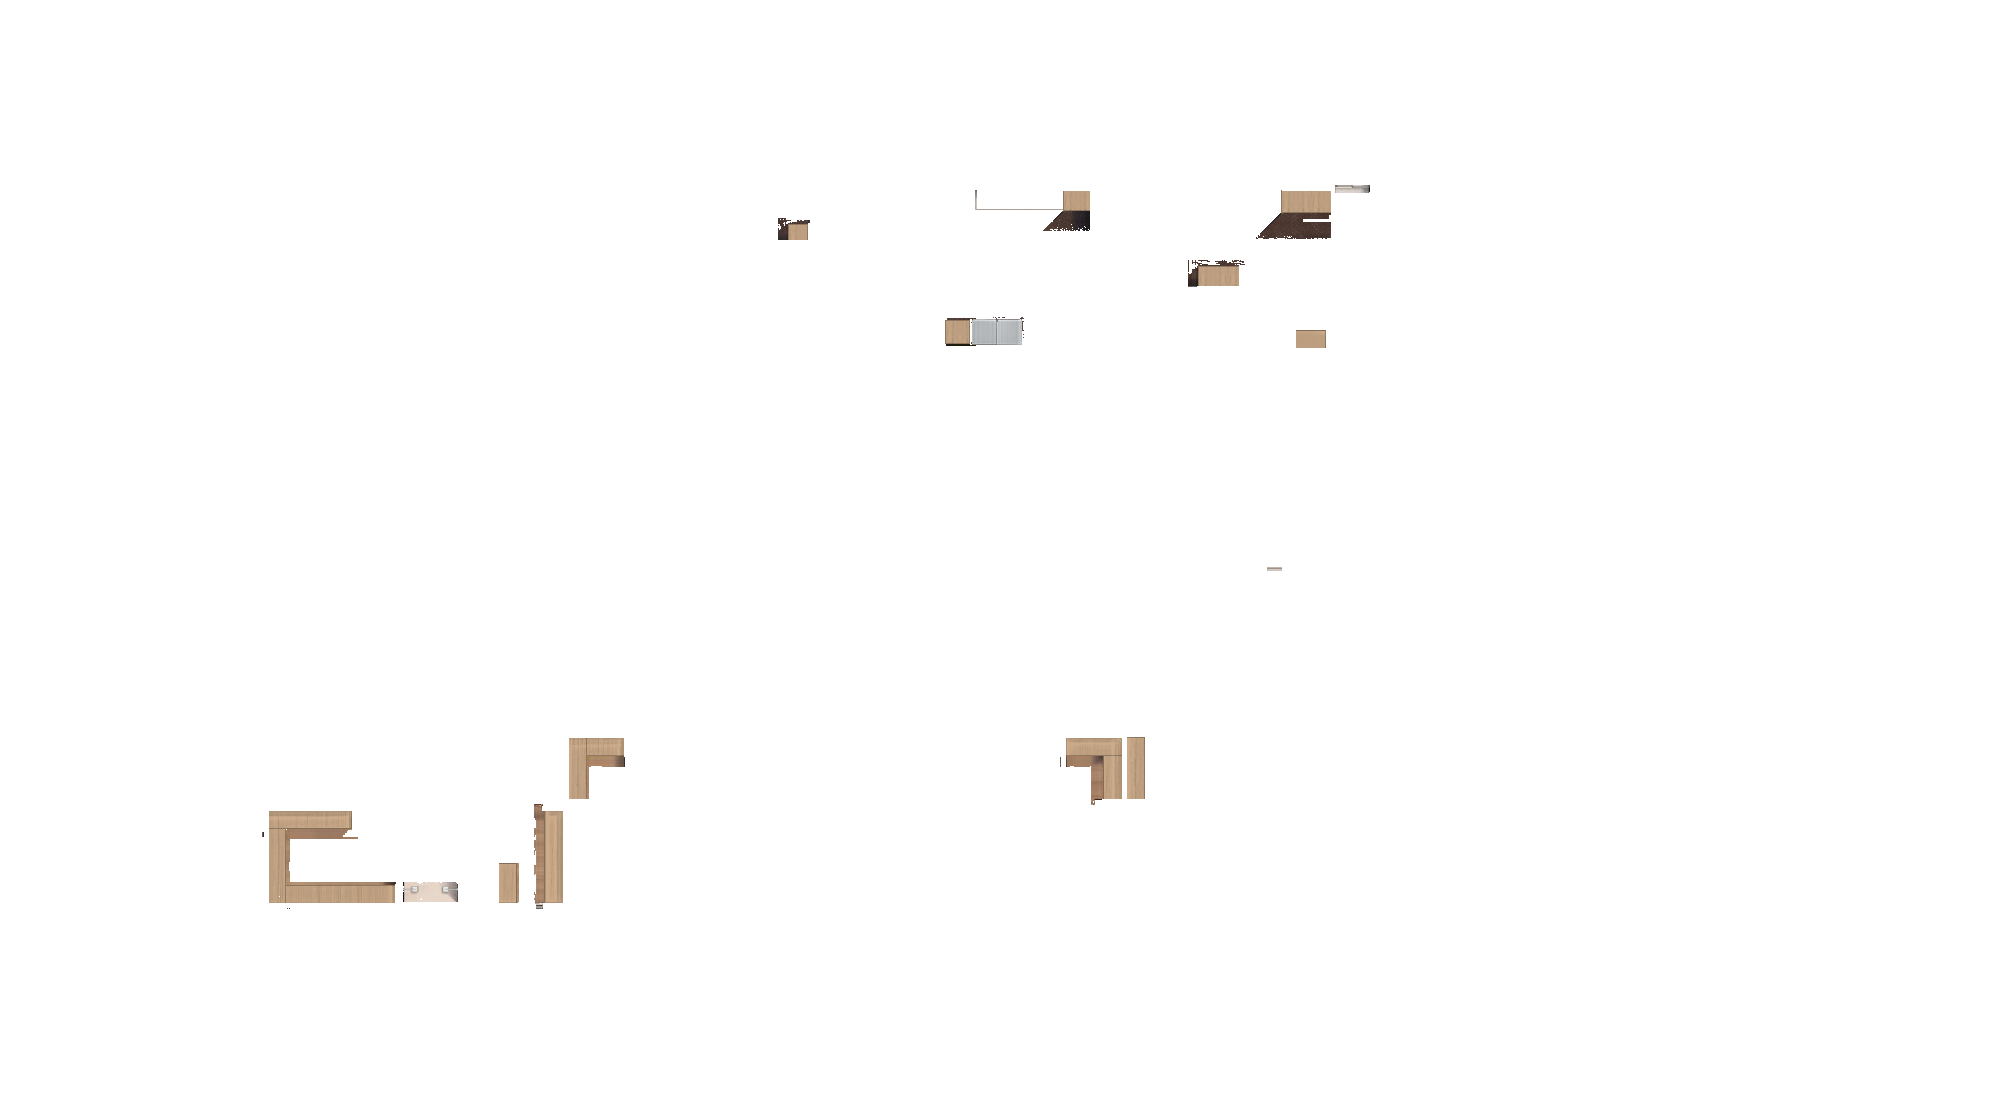
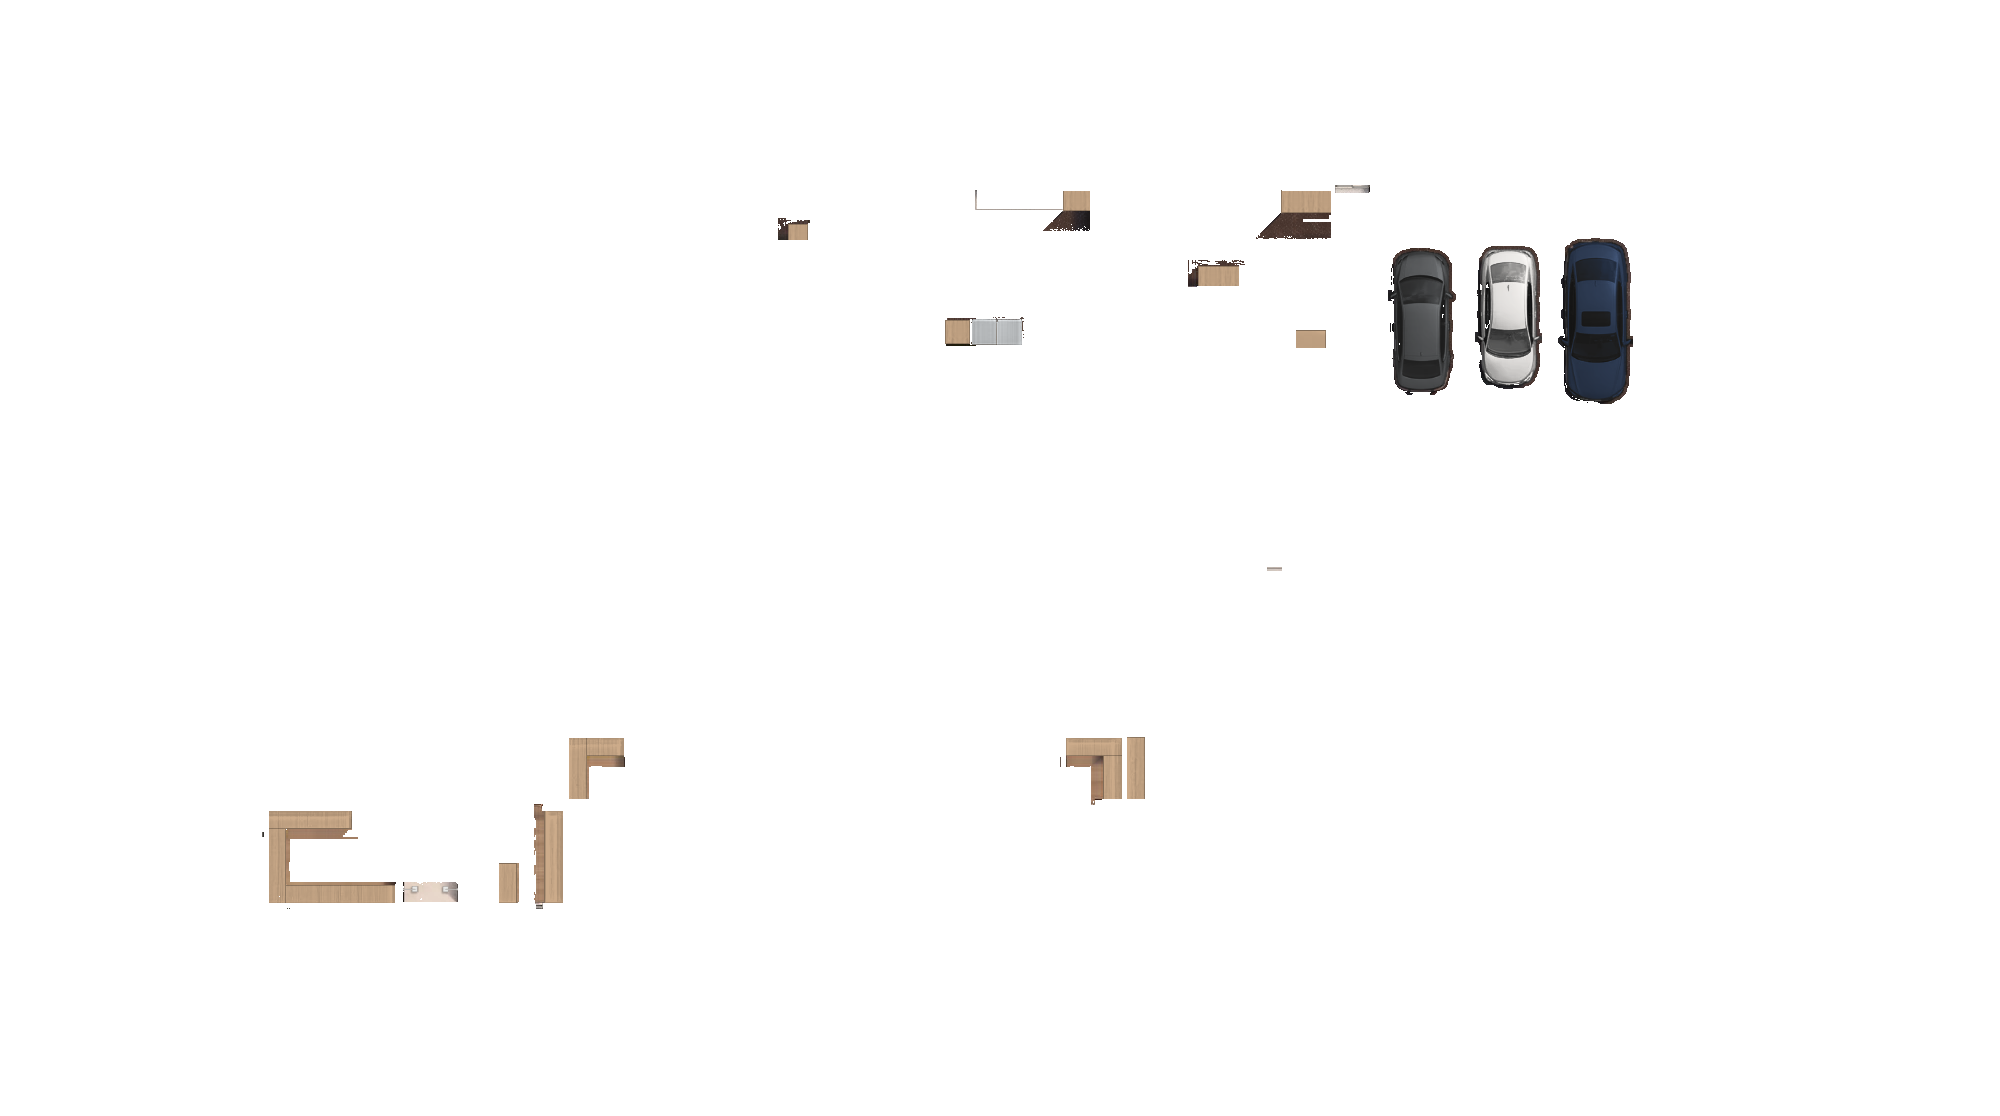
Casa D: carros em tons diferentes e prévia do retoque
Claude-Session: https://claude.ai/code/session_01Mm19WX3KoLN1nXMDF5Ay3F

Changed region(s): [[0.682, 0.2133, 0.837, 0.3656]]

diff --git a/projetos/POE642_CasaA/scripts/retoque_terreo_casad.py b/projetos/POE642_CasaA/scripts/retoque_terreo_casad.py
@@ -37,6 +37,11 @@ Os itens são corrigidos um a um, na ordem pedida pelo usuário.
    dela viram o piso do abrigo (as de baixo, em espelho) e entra a porta do PDF (ARQ_PAREDE): duas
    folhas em planos diferentes na espessura da parede (a da esquerda por fora, a da direita por
    dentro), com montantes e batentes, em 8x, e a sombra curta da folha de dentro.
+7. Carros: o motor fez os três em prata; cada um ganha um tom (pedido do usuário): grafite, branco
+   perolado e azul-marinho. Na silhueta de cada carro (o que não é o granito quente do piso, mais a
+   borda misturada), uma curva de tom leva a luminância do prata à da tinta, mantendo a ordem do
+   render (vidros mais escuros que a lataria, reflexos); a cor entra só nos tons médios e claros e
+   as lanternas ficam.
 
 As coordenadas estão em px do render (2000 x 1116).
 
@@ -170,6 +175,18 @@ PORTA_GAS = {
     "sombra": (0.80, 0.90, 0.96),                # linhas logo abaixo da folha de dentro
 }
 
+# carros da garagem: o motor fez os três em prata. Cada um ganha um tom (pedido do usuário). Na
+# silhueta do carro (o que não é o granito quente do piso), uma curva de tom leva a luminância do
+# prata à da tinta, mantendo a ordem do render (vidros mais escuros que a lataria, reflexos); a cor
+# entra só nos tons médios e claros (o vidro escuro fica neutro)
+CARROS = {
+    # (nome, caixa, curva: ("escurecer", base, faixa, expoente) ou ("clarear", ini, fim, força), cor BGR)
+    "carros": [("esquerda", (1388, 246, 1458, 398), ("escurecer", 26.0, 74.0, 1.6), (1.02, 1.0, 0.98)),   # grafite
+               ("meio", (1475, 243, 1542, 391), ("clarear", 130.0, 195.0, 0.55), (0.99, 1.0, 1.01)),     # branco perolado
+               ("direita", (1557, 236, 1633, 407), ("escurecer", 18.0, 52.0, 1.4), (1.34, 0.96, 0.74))],  # azul-marinho
+    "quente": 16, "lum_min": 90.0, "claro": 125.0, "fecho": 9, "reflexo": 0.6, "cor_lum": (70.0, 140.0),
+    "lanterna": (40, 120),                      # R - B e R mínimos: lanternas e faróis âmbar ficam
+}
 
 def alinhar_base(render):
     """Base 16:9 reduzida e levada ao render por SIFT + afim; também a base chapada (v2)."""
@@ -549,6 +566,38 @@ def porta_gas(out):
     return out
 
 
+def carros(out):
+    q = CARROS
+    for nome, (x0, y0, x1, y1), curva, cor in q["carros"]:
+        reg = out[y0:y1, x0:x1].astype(np.float32)
+        Y = reg.mean(axis=2)
+        frio = np.abs(reg[..., 2] - reg[..., 0]) < q["quente"]          # o granito é quente (R > B)
+        sil = ((frio & (Y > q["lum_min"])) | (Y > q["claro"])).astype(np.uint8)   # o granito nunca é tão claro
+        sil = cv2.morphologyEx(sil, cv2.MORPH_CLOSE, np.ones((q["fecho"], q["fecho"]), np.uint8))
+        cont, _ = cv2.findContours(sil, cv2.RETR_EXTERNAL, cv2.CHAIN_APPROX_NONE)
+        sil = np.zeros_like(sil)
+        cv2.drawContours(sil, [max(cont, key=cv2.contourArea)], -1, 1, -1)
+        sil = cv2.dilate(sil, np.ones((3, 3), np.uint8))         # a borda misturada com o piso também
+        lanterna = (reg[..., 2] - reg[..., 0] > q["lanterna"][0]) & (reg[..., 2] > q["lanterna"][1])
+        a = cv2.GaussianBlur((sil * ~lanterna).astype(np.float32), (0, 0), 0.6)[..., None]
+        topo = np.percentile(Y[sil > 0], 97)
+        if curva[0] == "escurecer":
+            _, base, faixa, ex = curva
+            Yn = base + faixa * np.clip(Y / topo, 0, 1) ** ex
+            Yn += q["reflexo"] * np.clip(Y - topo, 0, None)
+        else:
+            _, ini_, fim_, forca = curva
+            s = np.clip((Y - ini_) / (fim_ - ini_), 0, 1)
+            Yn = Y + forca * s * s * (3 - 2 * s) * (250 - Y)
+        lo, hi = q["cor_lum"]
+        sc = np.clip((Y - lo) / (hi - lo), 0, 1)[..., None]
+        unid = np.array(cor, np.float32)[None, None]
+        novo = Yn[..., None] * (1 + sc * (unid - 1))
+        out[y0:y1, x0:x1] = np.clip(reg * (1 - a) + novo * a, 0, 255).astype(np.uint8)
+        print(f"    carro da {nome}: curva {curva[0]}, cor {cor}")
+    return out
+
+
 def main():
     ap = argparse.ArgumentParser(description=__doc__, formatter_class=argparse.RawDescriptionHelpFormatter)
     ap.add_argument("render", type=Path)
@@ -572,6 +621,8 @@ def main():
     out = inox(out)
     print("[6] porta de correr do abrigo de gás")
     out = porta_gas(out)
+    print("[7] carros em tons diferentes")
+    out = carros(out)
 
     args.saida.mkdir(parents=True, exist_ok=True)
     cv2.imwrite(str(args.saida / f"{args.nome}.png"), out)

diff --git a/projetos/POE642_CasaA/scripts/README.md b/projetos/POE642_CasaA/scripts/README.md
@@ -239,6 +239,7 @@ Mesmo método da Casa C (render retocado sem IA, item por item, na ordem pedida 
 - **Área molhada da pia da cozinha:** retângulo do PDF (ARQ_BANCADAS) em traço cinza fino nos lados livres, como na Casa C.
 - **Inox:** os dois eletrodomésticos da cozinha mudam só de tom (cor de aço vezes a luminância relativa do render, com riscos verticais sutis); a borda com o granito é mesclada pela luminância.
 - **Porta do abrigo de gás:** a soleira do motor vira o piso do abrigo (espelho) e as duas folhas de correr do PDF são desenhadas em 8x (folha, montantes, contorno e batentes), com sombra curta.
+- **Carros:** curva de tom por carro na silhueta (não-granito: frio ou claro, fechada e preenchida, com a borda), escurecendo ou clareando a luminância do prata; a cor entra só nos tons médios e claros; lanternas (R bem maior que B) ficam.
 
 ```bash
 python retoque_terreo_casad.py ../../POE642_CasaD/renders/POE642_CasaD_PH_Terreo_v1_render.webp --saida ../../POE642_CasaD/renders --nome POE642_CasaD_PH_Terreo_v1_retocado

diff --git a/projetos/POE642_HANDOFF_SESSAO_LOCAL.md b/projetos/POE642_HANDOFF_SESSAO_LOCAL.md
@@ -372,4 +372,5 @@ python texturizar_base.py Subsolo ../../POE642_CasaC/bases/POE642_CasaC_BASE_Sub
   4. área molhada da bancada da pia da cozinha: traço cinza fino nos lados livres (esquerda e embaixo), como na Casa C.
   5. eletrodomésticos da cozinha (os dois volumes ao lado do armário do canto) em inox, com o sombreado do render.
   6. porta de correr do abrigo de gás: a soleira larga do motor sai e entram as duas folhas do PDF, em dois planos.
+  7. carros em tons diferentes: grafite (esquerda), branco perolado (meio) e azul-marinho (direita), por curva de tom na silhueta, com vidros, reflexos e lanternas do render.
 
